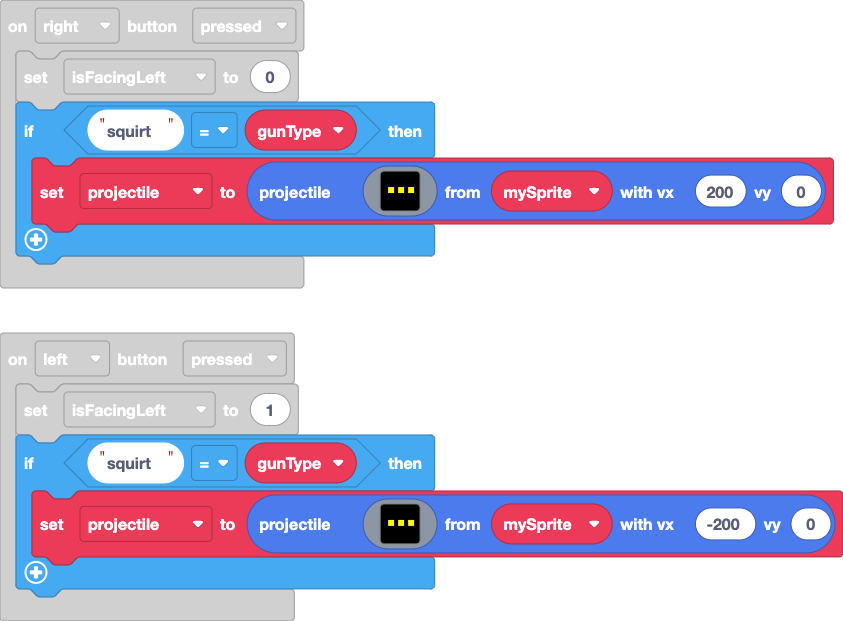
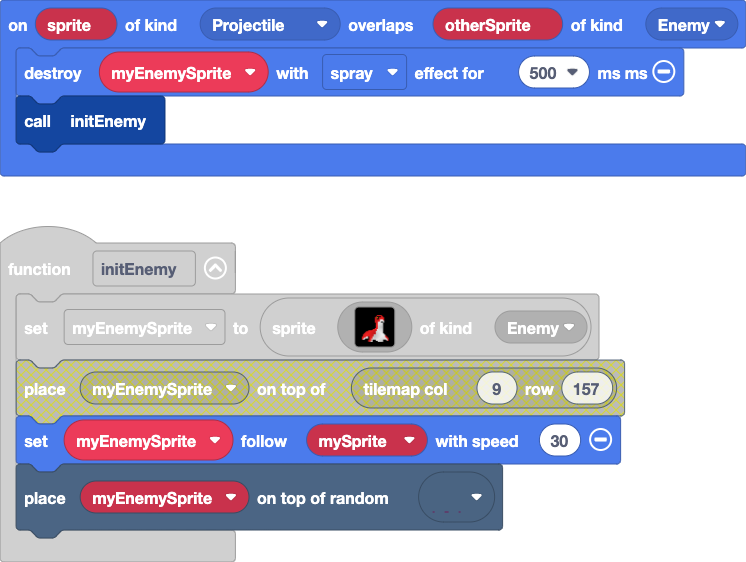
Update main.blocks, main.ts

diff --git a/main.ts b/main.ts
@@ -1,6 +1,6 @@
 function initEnemy () {
     myEnemySprite = sprites.create(assets.image`Nega Nessie`, SpriteKind.Enemy)
-    tiles.placeOnTile(myEnemySprite, tiles.getTileLocation(9, 157))
+    tiles.placeOnRandomTile(myEnemySprite, assets.tile`gunPickupTile`)
     myEnemySprite.follow(mySprite, 30)
 }
 controller.A.onEvent(ControllerButtonEvent.Pressed, function () {
@@ -39,6 +39,10 @@ controller.right.onEvent(ControllerButtonEvent.Pressed, function () {
     if ("squirt" == gunType) {
         projectile = sprites.createProjectileFromSprite(assets.image`projectile`, mySprite, 200, 0)
     }
+})
+sprites.onOverlap(SpriteKind.Projectile, SpriteKind.Enemy, function (sprite, otherSprite) {
+    myEnemySprite.destroy(effects.spray, 500)
+    initEnemy()
 })
 let projectile: Sprite = null
 let isFacingLeft = 0
